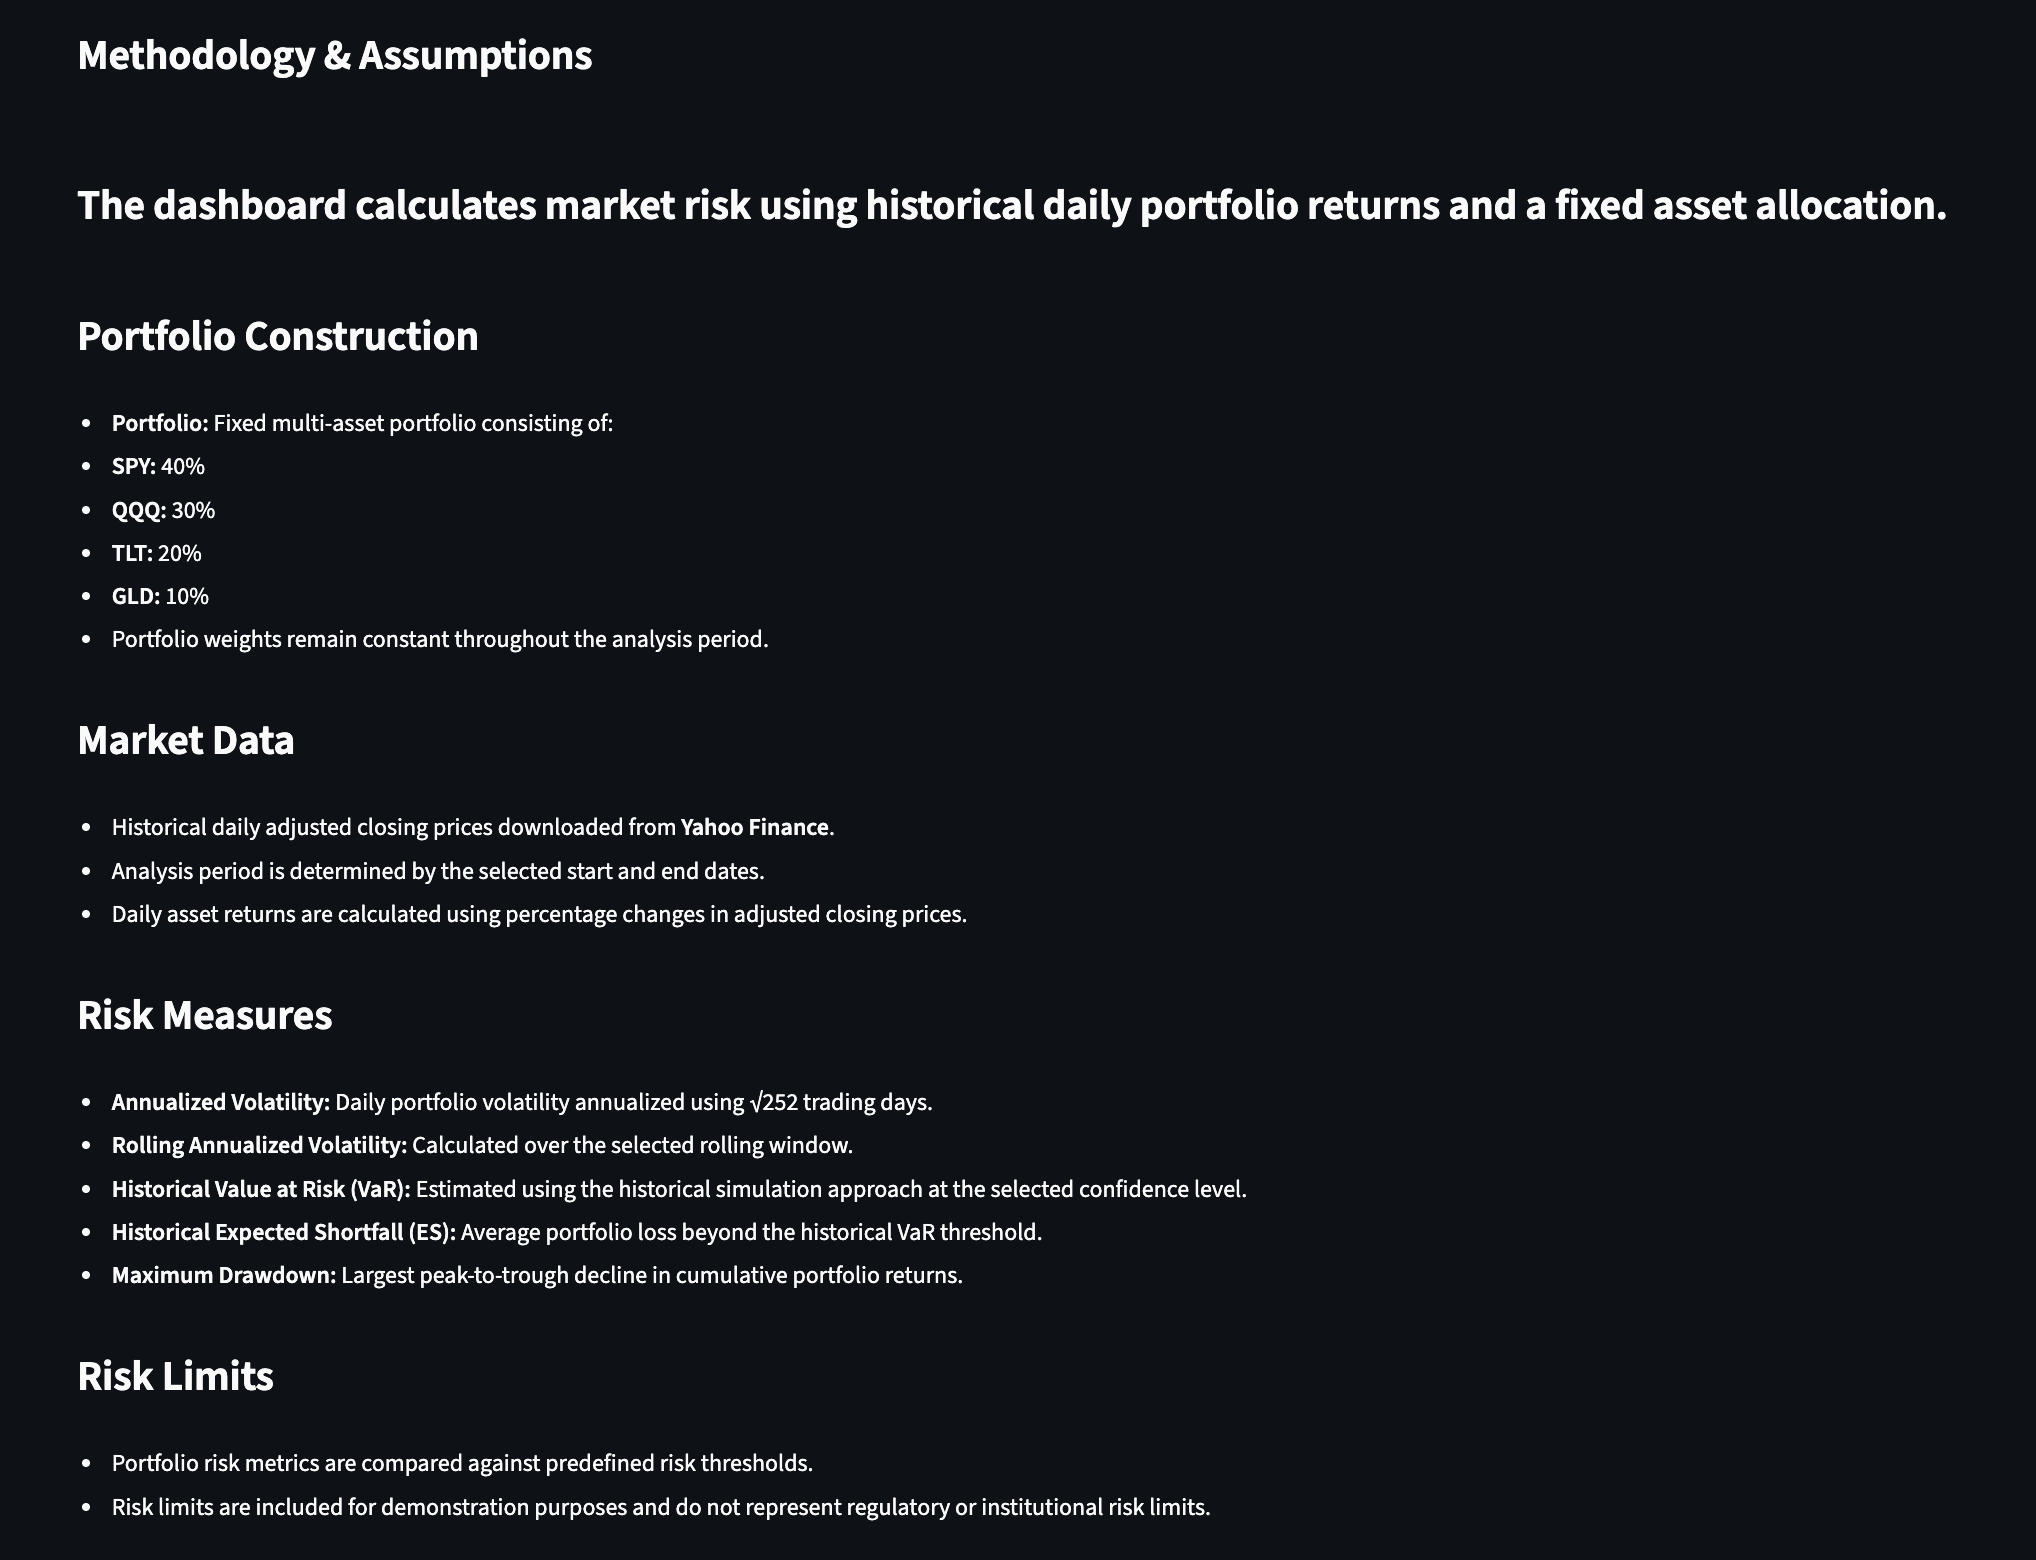
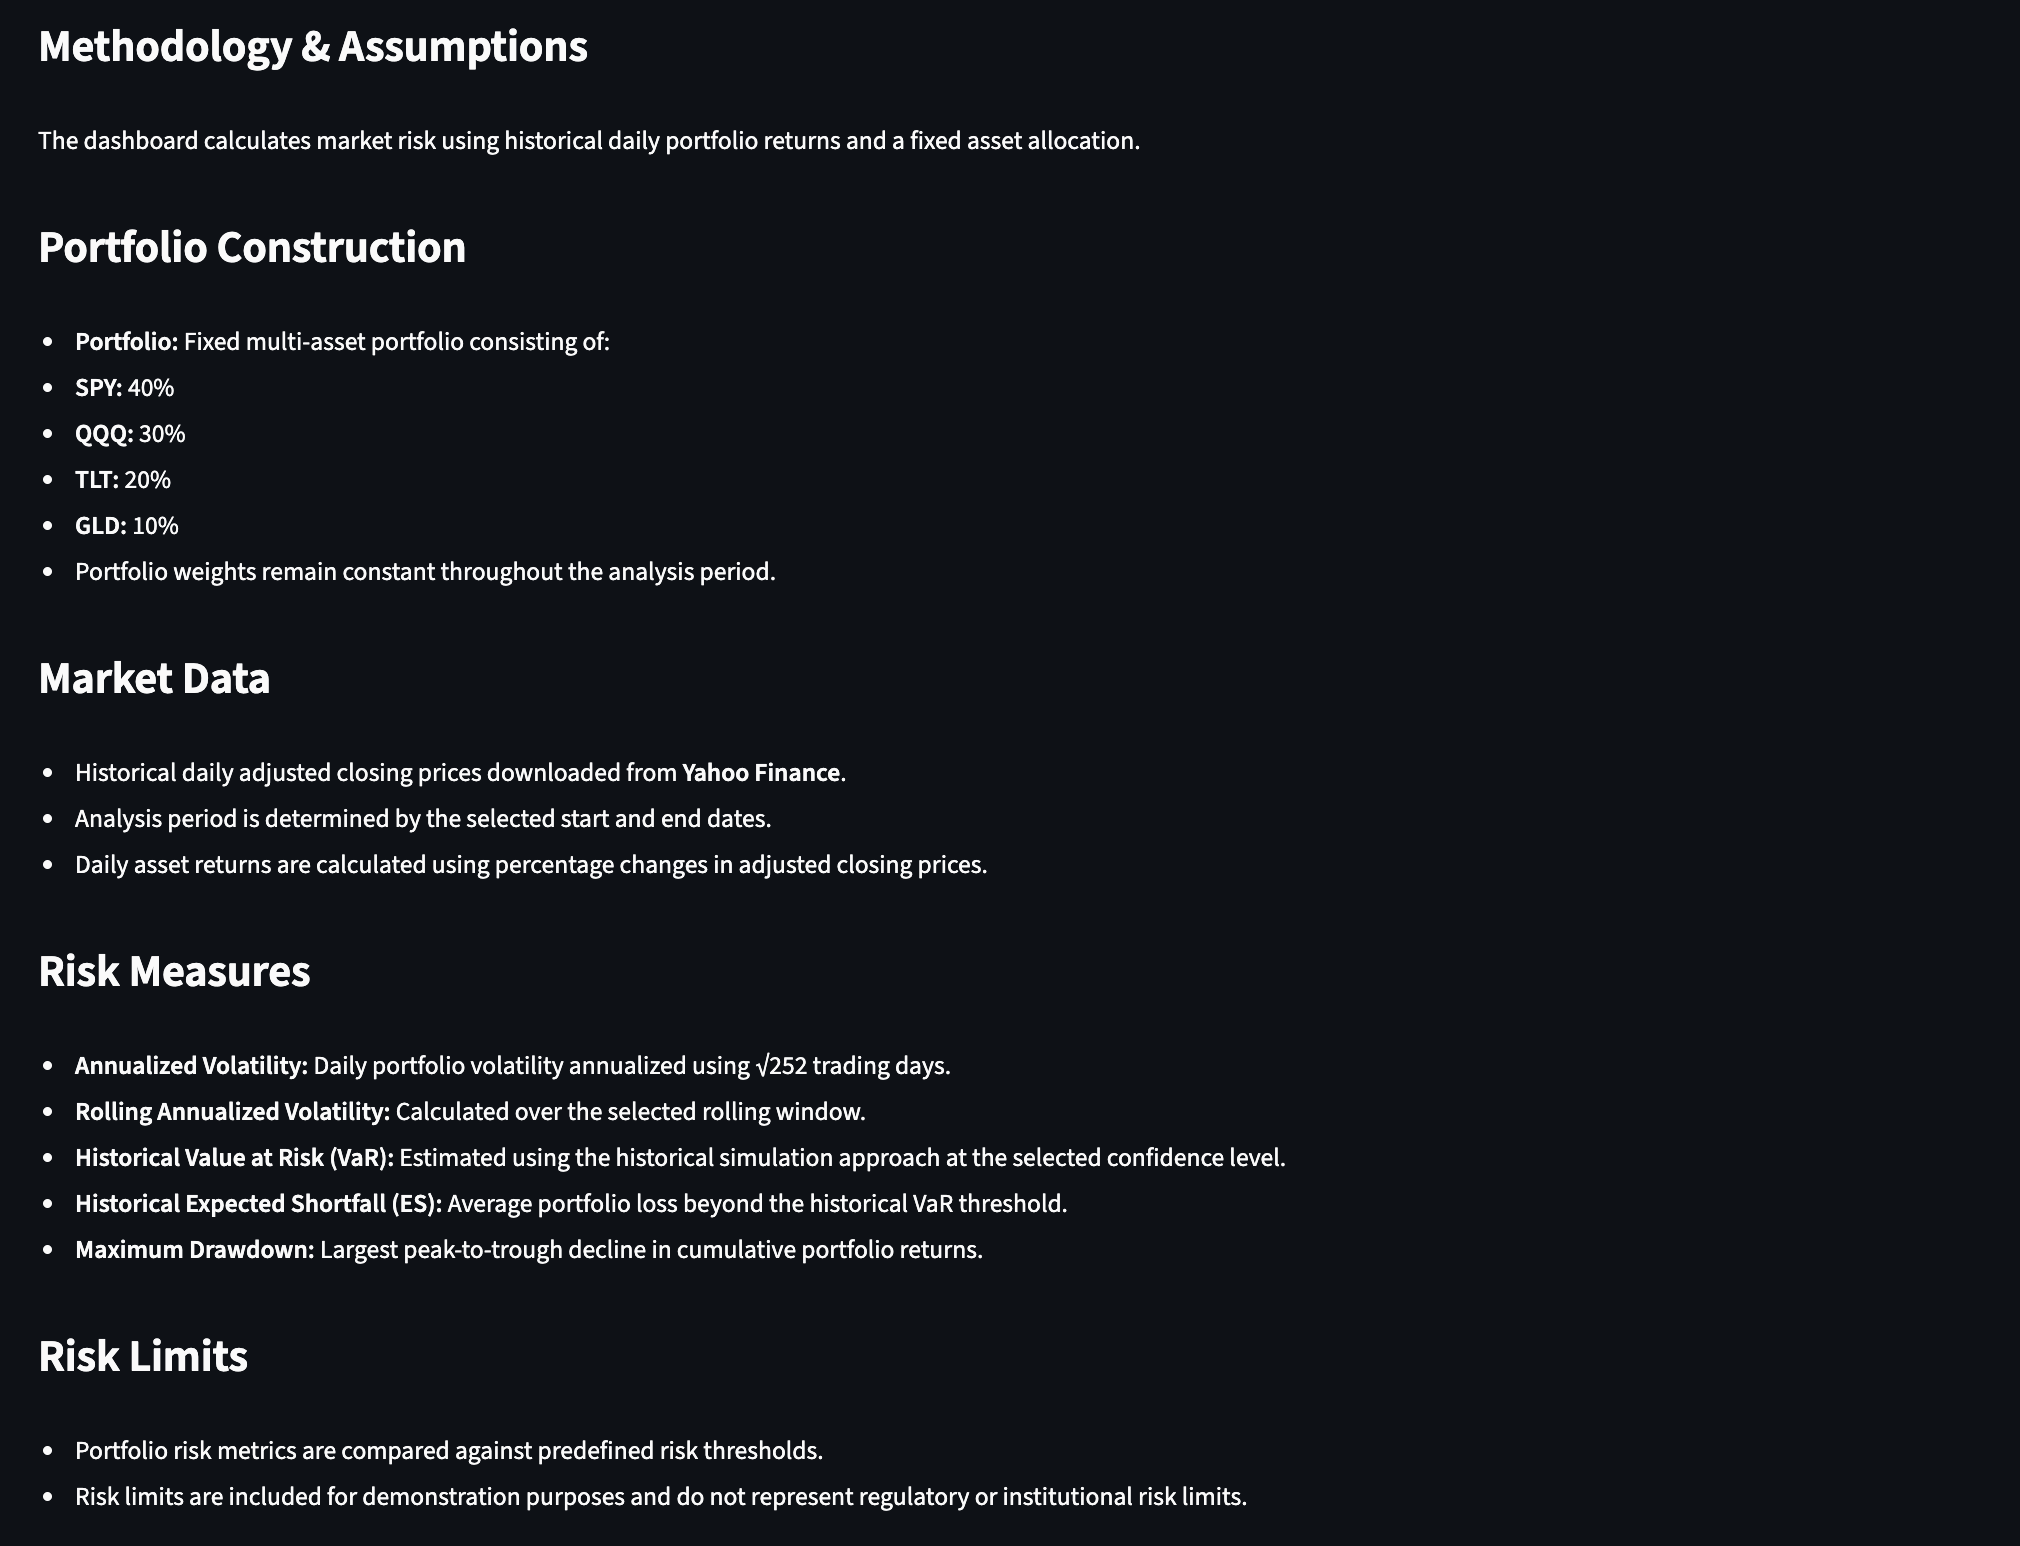
Refine methodology documentation

diff --git a/app.py b/app.py
@@ -443,7 +443,7 @@ def main():
 
     st.markdown(
         """
-    ### The dashboard calculates market risk using historical daily portfolio returns and a fixed asset allocation.
+    The dashboard calculates market risk using historical daily portfolio returns and a fixed asset allocation.
 
     ### Portfolio Construction
 
